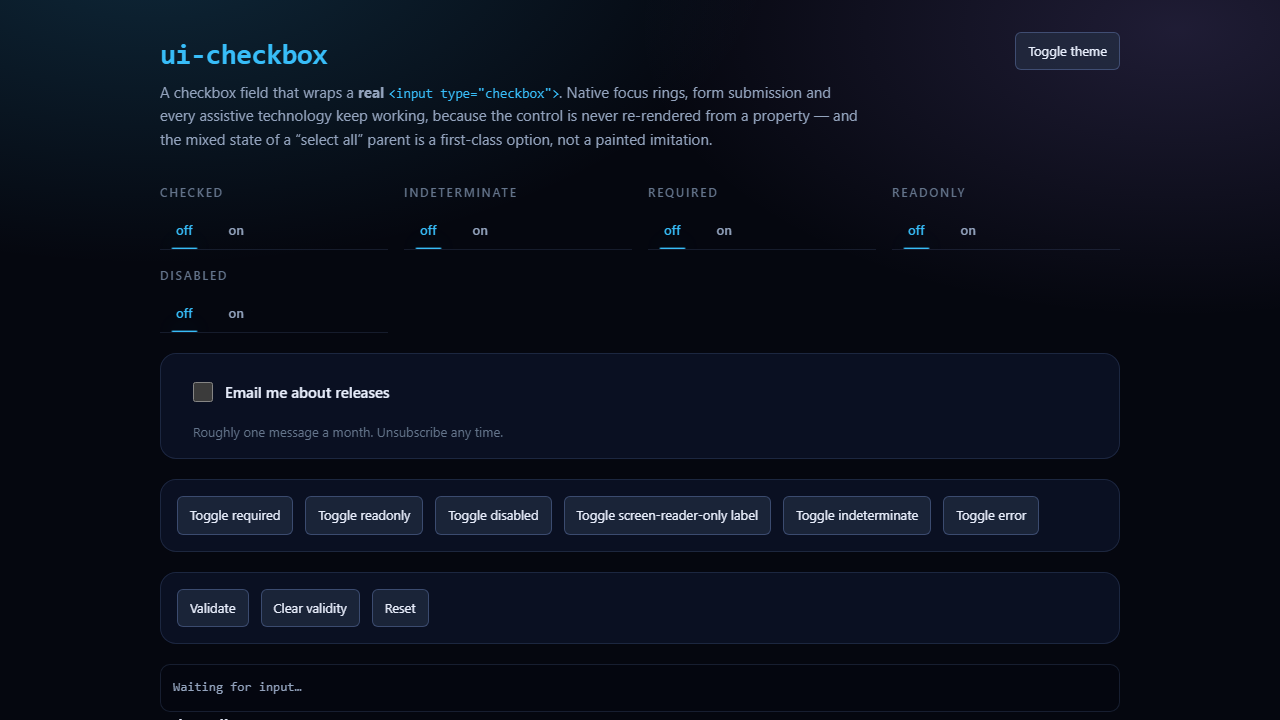
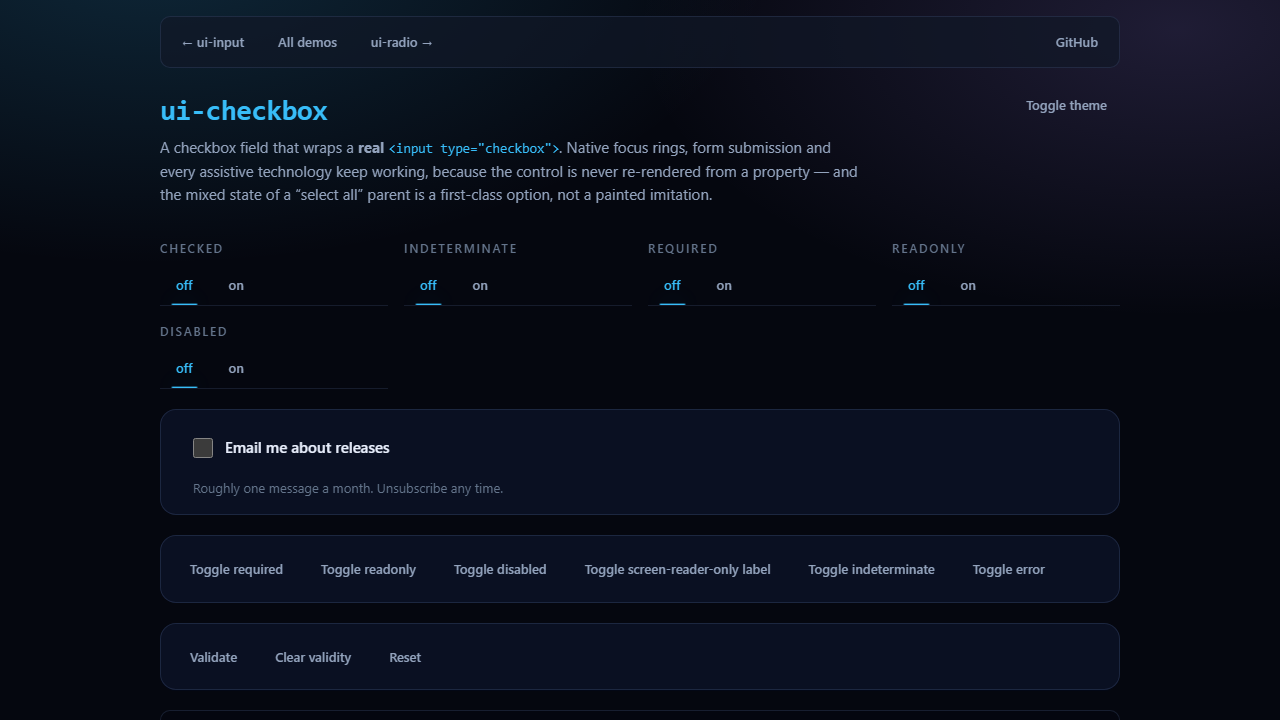
feat(demo): use ui-button for the demos' own action controls
The shell was rebuilt from UI4U last round; the action controls each demo page
puts above its own playground ("Toggle required", "Validate", "Reset") were
still raw <button> elements. Forty-five of them across ten pages are now
ui-buttons, so a demo page is built from the library throughout rather than
merely wrapping it.

Twelve are deliberately left native, because there the control is the subject
rather than the chrome: the eight data-accent swatches that demonstrate the
platform's own accent-color styling, the tooltip and popup targets a demo
attaches a surface to, and the tooltip page's aria-pressed toggle. Wrapping
those in ui-button would erase what the page exists to show. AGENTS.md records
the rule so the next demo does not "fix" them.

Ids are preserved, so the existing e2e suites that click these controls by id
keep working unchanged.

Also drops .demo-todo, which became dead when the index was rebuilt as a table
grid.

diff --git a/demo/checkbox.html b/demo/checkbox.html
@@ -78,18 +78,22 @@
       </div>
 
       <div class="controls">
-        <button id="toggle-required" type="button">Toggle required</button>
-        <button id="toggle-readonly" type="button">Toggle readonly</button>
-        <button id="toggle-disabled" type="button">Toggle disabled</button>
-        <button id="toggle-sr-only" type="button">Toggle screen-reader-only label</button>
-        <button id="toggle-indeterminate" type="button">Toggle indeterminate</button>
-        <button id="toggle-error" type="button">Toggle error</button>
+        <ui-button id="toggle-required" variant="ghost" size="sm">Toggle required</ui-button>
+        <ui-button id="toggle-readonly" variant="ghost" size="sm">Toggle readonly</ui-button>
+        <ui-button id="toggle-disabled" variant="ghost" size="sm">Toggle disabled</ui-button>
+        <ui-button id="toggle-sr-only" variant="ghost" size="sm"
+          >Toggle screen-reader-only label</ui-button
+        >
+        <ui-button id="toggle-indeterminate" variant="ghost" size="sm"
+          >Toggle indeterminate</ui-button
+        >
+        <ui-button id="toggle-error" variant="ghost" size="sm">Toggle error</ui-button>
       </div>
 
       <div class="controls">
-        <button id="validate" type="button">Validate</button>
-        <button id="clear" type="button">Clear validity</button>
-        <button id="reset" type="button">Reset</button>
+        <ui-button id="validate" variant="ghost" size="sm">Validate</ui-button>
+        <ui-button id="clear" variant="ghost" size="sm">Clear validity</ui-button>
+        <ui-button id="reset" variant="ghost" size="sm">Reset</ui-button>
       </div>
 
       <div class="log" id="log" role="status" aria-live="polite">Waiting for input…</div>

diff --git a/demo/input.html b/demo/input.html
@@ -59,17 +59,19 @@
       </div>
 
       <div class="controls">
-        <button id="toggle-required" type="button">Toggle required</button>
-        <button id="toggle-readonly" type="button">Toggle readonly</button>
-        <button id="toggle-disabled" type="button">Toggle disabled</button>
-        <button id="toggle-sr-only" type="button">Toggle screen-reader-only label</button>
-        <button id="toggle-error" type="button">Toggle error</button>
+        <ui-button id="toggle-required" variant="ghost" size="sm">Toggle required</ui-button>
+        <ui-button id="toggle-readonly" variant="ghost" size="sm">Toggle readonly</ui-button>
+        <ui-button id="toggle-disabled" variant="ghost" size="sm">Toggle disabled</ui-button>
+        <ui-button id="toggle-sr-only" variant="ghost" size="sm"
+          >Toggle screen-reader-only label</ui-button
+        >
+        <ui-button id="toggle-error" variant="ghost" size="sm">Toggle error</ui-button>
       </div>
 
       <div class="controls">
-        <button id="validate" type="button">Validate</button>
-        <button id="clear" type="button">Clear validity</button>
-        <button id="reset" type="button">Reset</button>
+        <ui-button id="validate" variant="ghost" size="sm">Validate</ui-button>
+        <ui-button id="clear" variant="ghost" size="sm">Clear validity</ui-button>
+        <ui-button id="reset" variant="ghost" size="sm">Reset</ui-button>
       </div>
 
       <div class="log" id="log" role="status" aria-live="polite">Waiting for input…</div>

diff --git a/demo/dropdown.html b/demo/dropdown.html
@@ -63,15 +63,15 @@
       </div>
 
       <div class="controls">
-        <button id="toggle-required" type="button">Toggle required</button>
-        <button id="toggle-disabled" type="button">Toggle disabled</button>
-        <button id="toggle-error" type="button">Toggle error</button>
+        <ui-button id="toggle-required" variant="ghost" size="sm">Toggle required</ui-button>
+        <ui-button id="toggle-disabled" variant="ghost" size="sm">Toggle disabled</ui-button>
+        <ui-button id="toggle-error" variant="ghost" size="sm">Toggle error</ui-button>
       </div>
 
       <div class="controls">
-        <button id="validate" type="button">Validate</button>
-        <button id="clear" type="button">Clear validity</button>
-        <button id="reset" type="button">Reset</button>
+        <ui-button id="validate" variant="ghost" size="sm">Validate</ui-button>
+        <ui-button id="clear" variant="ghost" size="sm">Clear validity</ui-button>
+        <ui-button id="reset" variant="ghost" size="sm">Reset</ui-button>
       </div>
 
       <div class="log" id="log" role="status" aria-live="polite">Waiting for a selection…</div>

diff --git a/demo/button-group.html b/demo/button-group.html
@@ -74,10 +74,10 @@
       </div>
 
       <div class="controls">
-        <button id="validate" type="button">Validate</button>
-        <button id="clear" type="button">Clear validity</button>
-        <button id="clear-selection" type="button">Clear selection</button>
-        <button id="reset" type="button">Reset</button>
+        <ui-button id="validate" variant="ghost" size="sm">Validate</ui-button>
+        <ui-button id="clear" variant="ghost" size="sm">Clear validity</ui-button>
+        <ui-button id="clear-selection" variant="ghost" size="sm">Clear selection</ui-button>
+        <ui-button id="reset" variant="ghost" size="sm">Reset</ui-button>
       </div>
 
       <div class="log" id="log" role="status" aria-live="polite">Waiting for input…</div>
@@ -91,7 +91,7 @@
       </p>
 
       <div class="controls">
-        <button id="after" type="button">Next tab stop</button>
+        <ui-button id="after" variant="ghost" size="sm">Next tab stop</ui-button>
       </div>
 
       <h2>More</h2>

diff --git a/demo/radio.html b/demo/radio.html
@@ -75,10 +75,10 @@
       </div>
 
       <div class="controls">
-        <button id="validate" type="button">Validate</button>
-        <button id="clear" type="button">Clear validity</button>
-        <button id="clear-selection" type="button">Clear selection</button>
-        <button id="reset" type="button">Reset</button>
+        <ui-button id="validate" variant="ghost" size="sm">Validate</ui-button>
+        <ui-button id="clear" variant="ghost" size="sm">Clear validity</ui-button>
+        <ui-button id="clear-selection" variant="ghost" size="sm">Clear selection</ui-button>
+        <ui-button id="reset" variant="ghost" size="sm">Reset</ui-button>
       </div>
 
       <div class="log" id="log" role="status" aria-live="polite">Waiting for input…</div>
@@ -91,7 +91,7 @@
       </p>
 
       <div class="controls">
-        <button id="after" type="button">Next tab stop</button>
+        <ui-button id="after" variant="ghost" size="sm">Next tab stop</ui-button>
       </div>
 
       <h2>More</h2>

diff --git a/demo/button.html b/demo/button.html
@@ -54,9 +54,9 @@
       </div>
 
       <div class="controls">
-        <button id="press" type="button">Press programmatically</button>
-        <button id="toggle-disabled" type="button">Toggle disabled</button>
-        <button id="toggle-loading" type="button">Toggle loading</button>
+        <ui-button id="press" variant="ghost" size="sm">Press programmatically</ui-button>
+        <ui-button id="toggle-disabled" variant="ghost" size="sm">Toggle disabled</ui-button>
+        <ui-button id="toggle-loading" variant="ghost" size="sm">Toggle loading</ui-button>
       </div>
 
       <div class="log" id="log" role="status" aria-live="polite">Waiting for a press…</div>

diff --git a/demo/layout.html b/demo/layout.html
@@ -78,9 +78,9 @@
       </div>
 
       <div class="controls">
-        <button id="reset-all" type="button">Reset all</button>
-        <button id="collapse-left" type="button">Collapse explorer</button>
-        <button id="restore-left" type="button">Restore explorer</button>
+        <ui-button id="reset-all" variant="ghost" size="sm">Reset all</ui-button>
+        <ui-button id="collapse-left" variant="ghost" size="sm">Collapse explorer</ui-button>
+        <ui-button id="restore-left" variant="ghost" size="sm">Restore explorer</ui-button>
       </div>
 
       <ui-layout id="demo" step="16">

diff --git a/demo/tooltip.html b/demo/tooltip.html
@@ -48,8 +48,8 @@
       </div>
 
       <div class="controls">
-        <button id="show-all" type="button">Show</button>
-        <button id="hide-all" type="button">Hide</button>
+        <ui-button id="show-all" variant="ghost" size="sm">Show</ui-button>
+        <ui-button id="hide-all" variant="ghost" size="sm">Hide</ui-button>
         <button id="toggle-disabled" type="button" aria-pressed="false">Disable tooltips</button>
       </div>
 

diff --git a/demo/disclosure.html b/demo/disclosure.html
@@ -39,8 +39,8 @@
       </div>
 
       <div class="controls">
-        <button id="expand-all" type="button">Expand all</button>
-        <button id="collapse-all" type="button">Collapse all</button>
+        <ui-button id="expand-all" variant="ghost" size="sm">Expand all</ui-button>
+        <ui-button id="collapse-all" variant="ghost" size="sm">Collapse all</ui-button>
       </div>
 
       <ui-disclosure summary="First panel" open>

diff --git a/demo/tabs.html b/demo/tabs.html
@@ -52,8 +52,8 @@
       </div>
 
       <div class="controls">
-        <button id="prev" type="button">Previous</button>
-        <button id="next" type="button">Next</button>
+        <ui-button id="prev" variant="ghost" size="sm">Previous</ui-button>
+        <ui-button id="next" variant="ghost" size="sm">Next</ui-button>
       </div>
 
       <ui-tabs id="demo" label="Project sections" variant="glass">

diff --git a/demo/demo.css b/demo/demo.css
@@ -310,15 +310,6 @@ kbd {
   color: transparent;
 }
 
-.demo-todo {
-  margin-top: var(--ui4u-space-6);
-  padding: var(--ui4u-space-4);
-  border: 1px dashed var(--ui4u-border-strong);
-  border-radius: var(--ui4u-radius-md);
-  color: var(--ui4u-text-subtle);
-  font-size: var(--ui4u-font-size-sm);
-}
-
 /*
  * The index catalogue.
  *

diff --git a/AGENTS.md b/AGENTS.md
@@ -56,6 +56,7 @@ Ship a component only when its demo page and tests exist; add the rest as the pr
 - Demos must drive themselves with UI4U components wherever one exists — never raw `<select>` or hand-rolled widgets. `e2e/tabs.spec.js` asserts the tabs demo contains zero `<select>` elements
 - Shared demo chrome lives in `demo/demo.css` and `demo/demo.js` — do not duplicate page styles per demo
 - **The demo shell is itself built from UI4U.** The navigation bar is a `ui-toolbar` of `ui-button`s, the index catalogue is a `ui-tablegrid` with a `ui-toolbar`, and every chrome control is a `ui-button`. The site is the library's own showcase — if the chrome can be expressed as a component, it must be. `e2e/shell.spec.js` and `e2e/index.spec.js` assert this, so a regression to hand-written markup fails the build. A component that cannot yet express something the shell needs is a gap in the component, not a licence to hand-roll it
+- **A demo's own action buttons are `ui-button` too** — "Toggle required", "Validate", "Reset" and friends. The one exception is a control that is _itself the subject_: the `data-accent` swatches demonstrating the platform's native `accent-color`, and the native targets a tooltip or popup demo attaches to. Wrapping those in `ui-button` would erase what the page is demonstrating
 - Class names carry the `ui4u-` prefix (`ui4u-tabs__list`, `ui4u-disclosure__summary`), matching the CSS custom property prefix
 - Add a `<figure class="demo-code">` with `<code data-highlight="html|js|css">` for copyable samples; `demo.js` tokenises and injects them with no dependency
 - Reference assets with absolute paths (`/dist/…`, `/src/…`); `scripts/build-pages.mjs` flattens and rewrites them to relative for Pages
